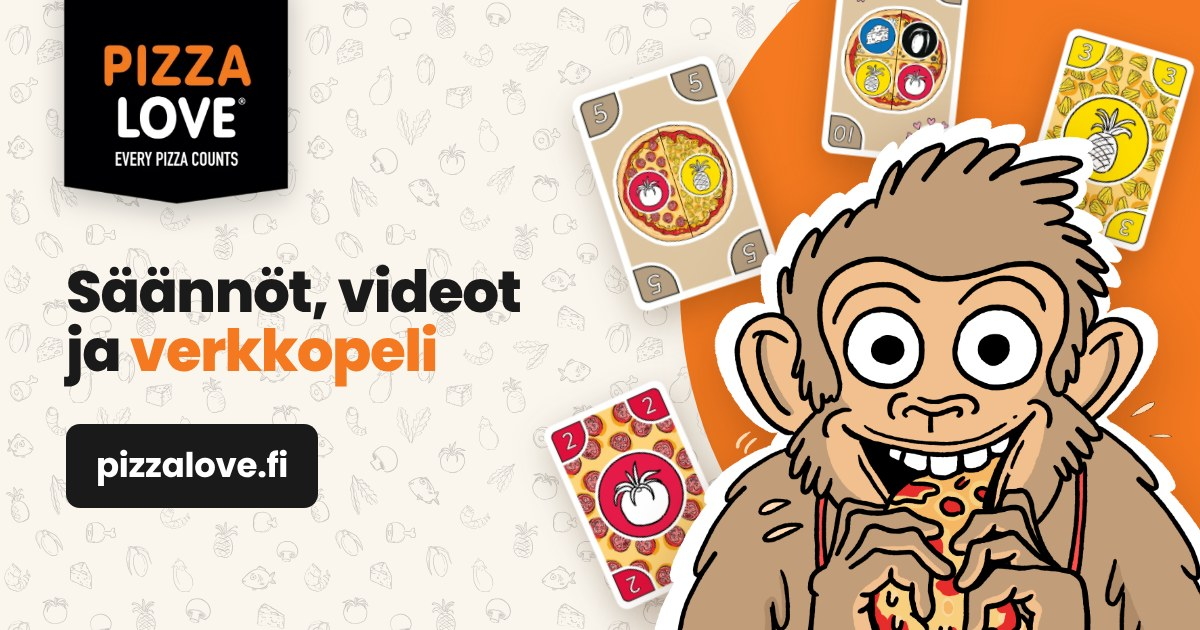
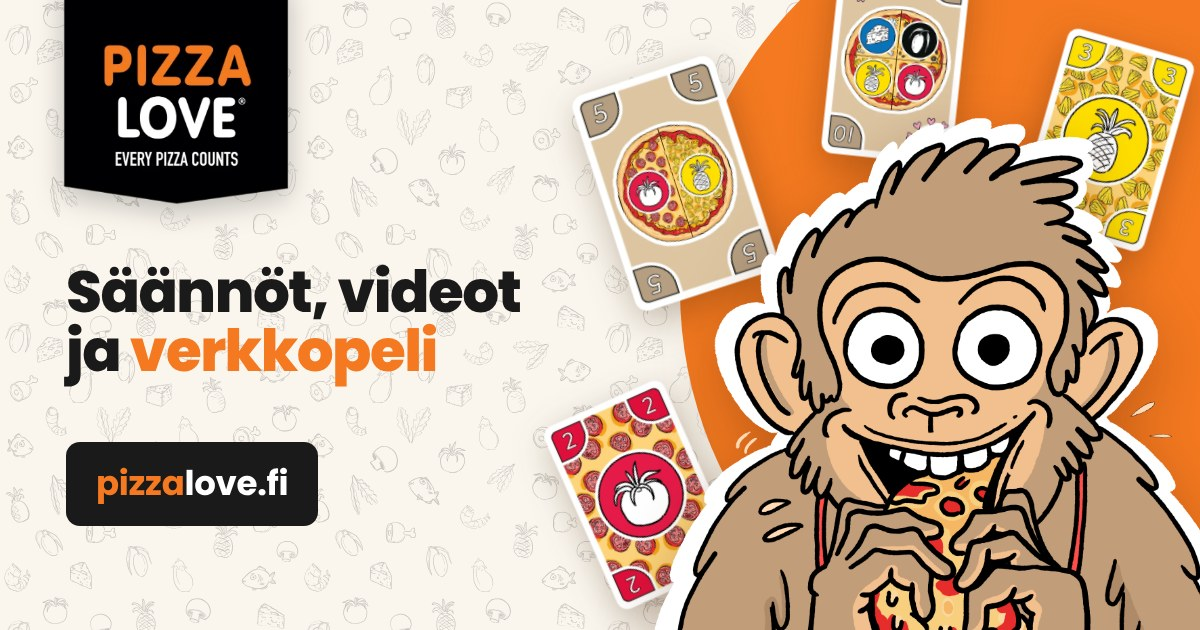
Jakokuva: osoite alemmas, 'pizza' oranssilla kuten logossa; CNAME ilman rivinvaihtoa
Claude-Session: https://claude.ai/code/session_01Jrb5sMZjYt7DdvpXLCZY5S

Changed region(s): [[0.0308, 0.6635, 0.2775, 0.8444]]

diff --git a/rakenna.py b/rakenna.py
@@ -518,7 +518,7 @@ def main():
                                             "location.replace('/' + (valittu || '%s') + '/');" % OLETUSKIELI))
     if KAYTA_OMAA_DOMAINIA:
         with open(os.path.join(ULOS, 'CNAME'), 'w') as out:
-            out.write('pizzalove.fi\n')
+            out.write('pizzalove.fi')  # sama muoto kuin GitHubin asetussivun luoma tiedosto
     with open(os.path.join(ULOS, '.nojekyll'), 'w') as out:
         out.write('')
     print('valmis:', ULOS)
